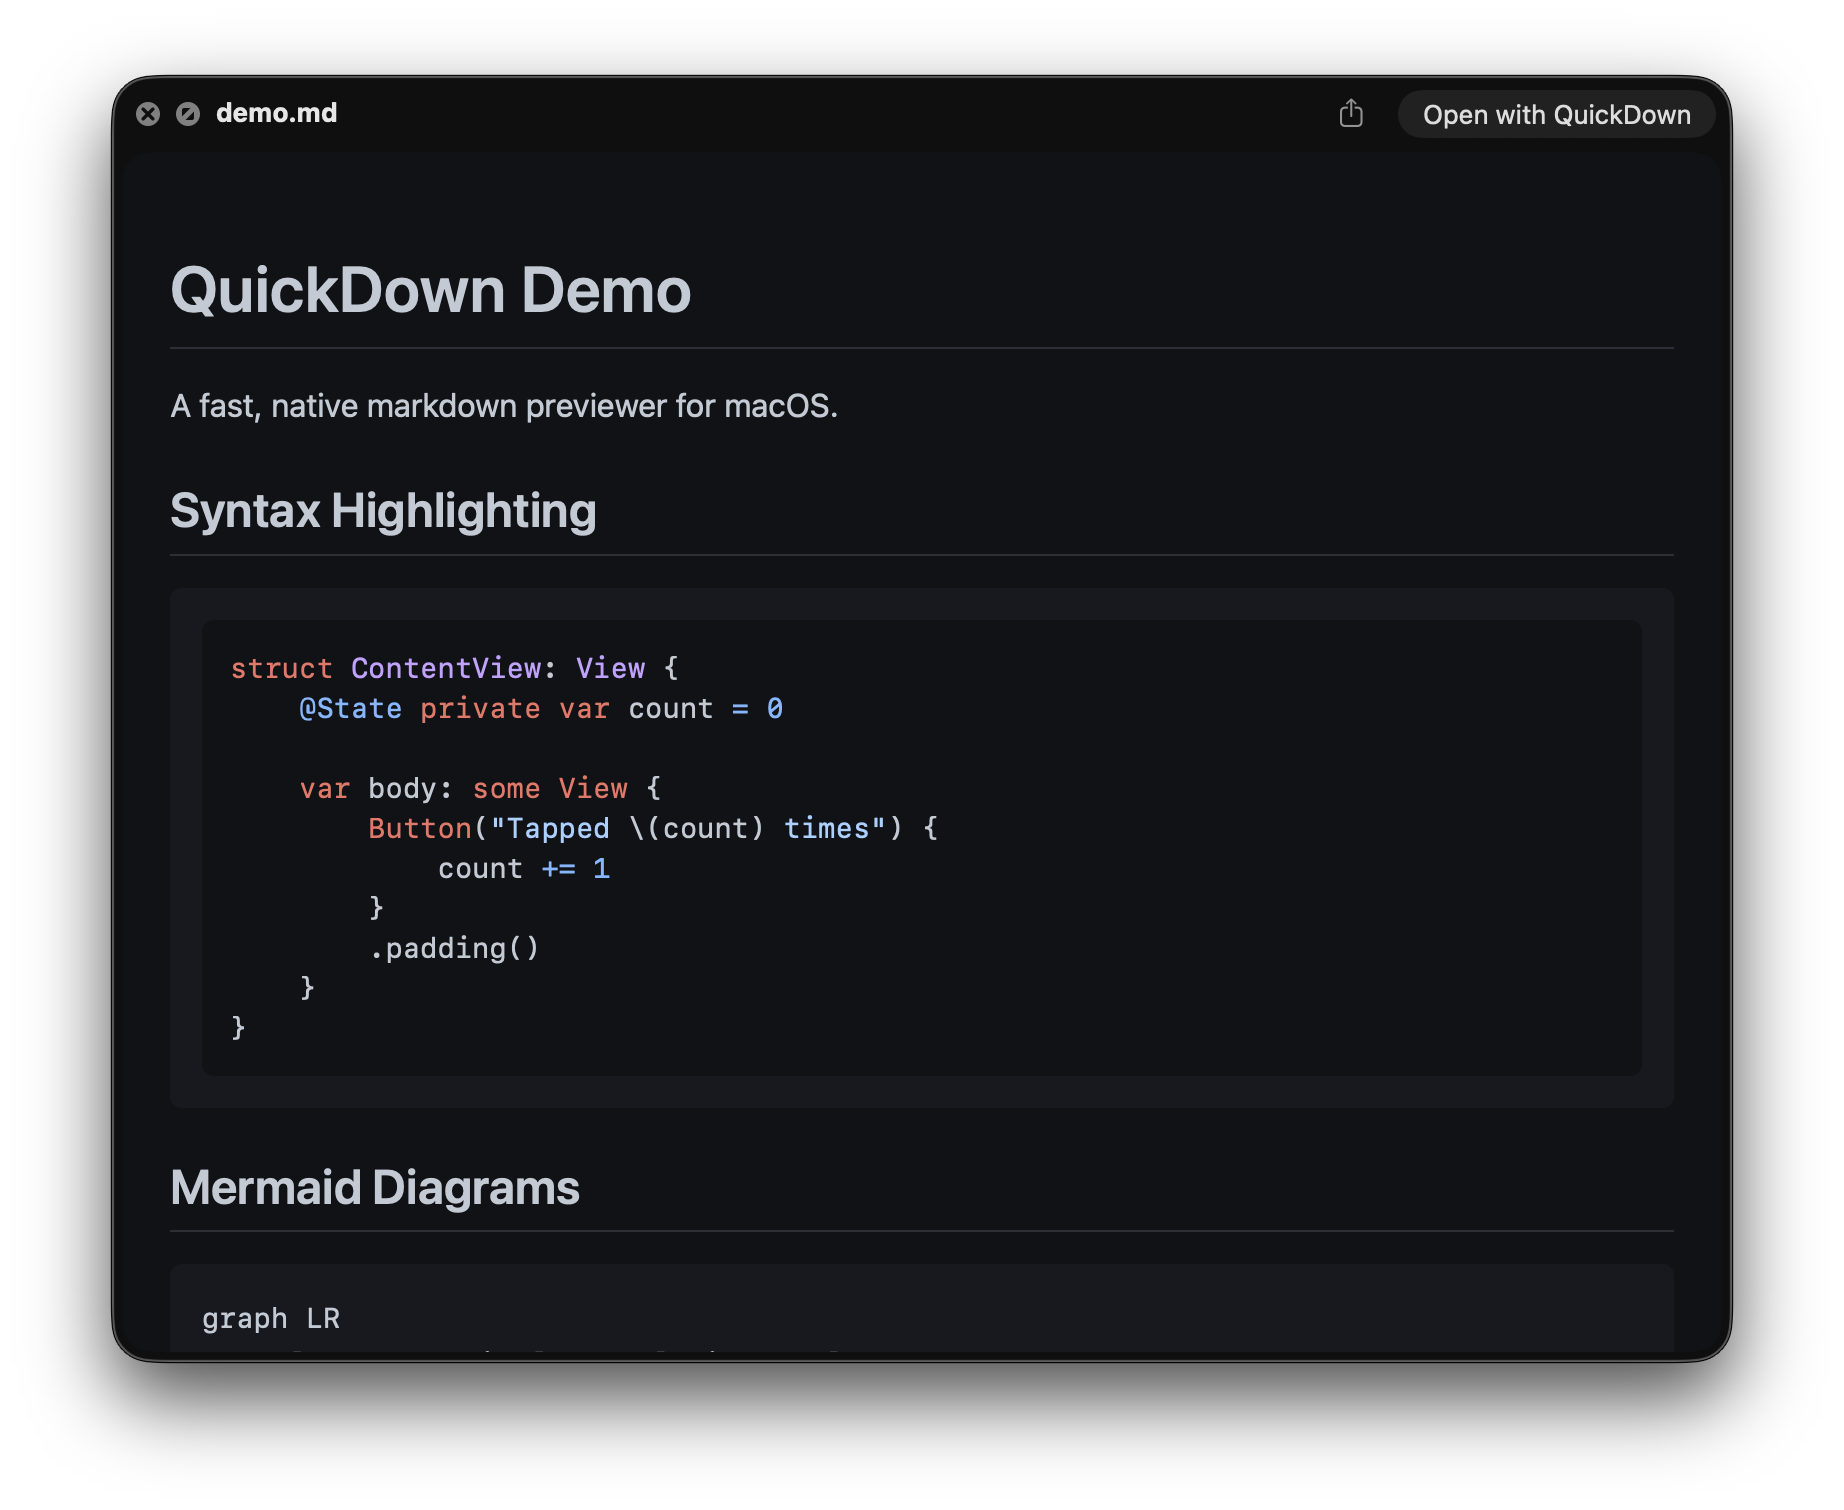
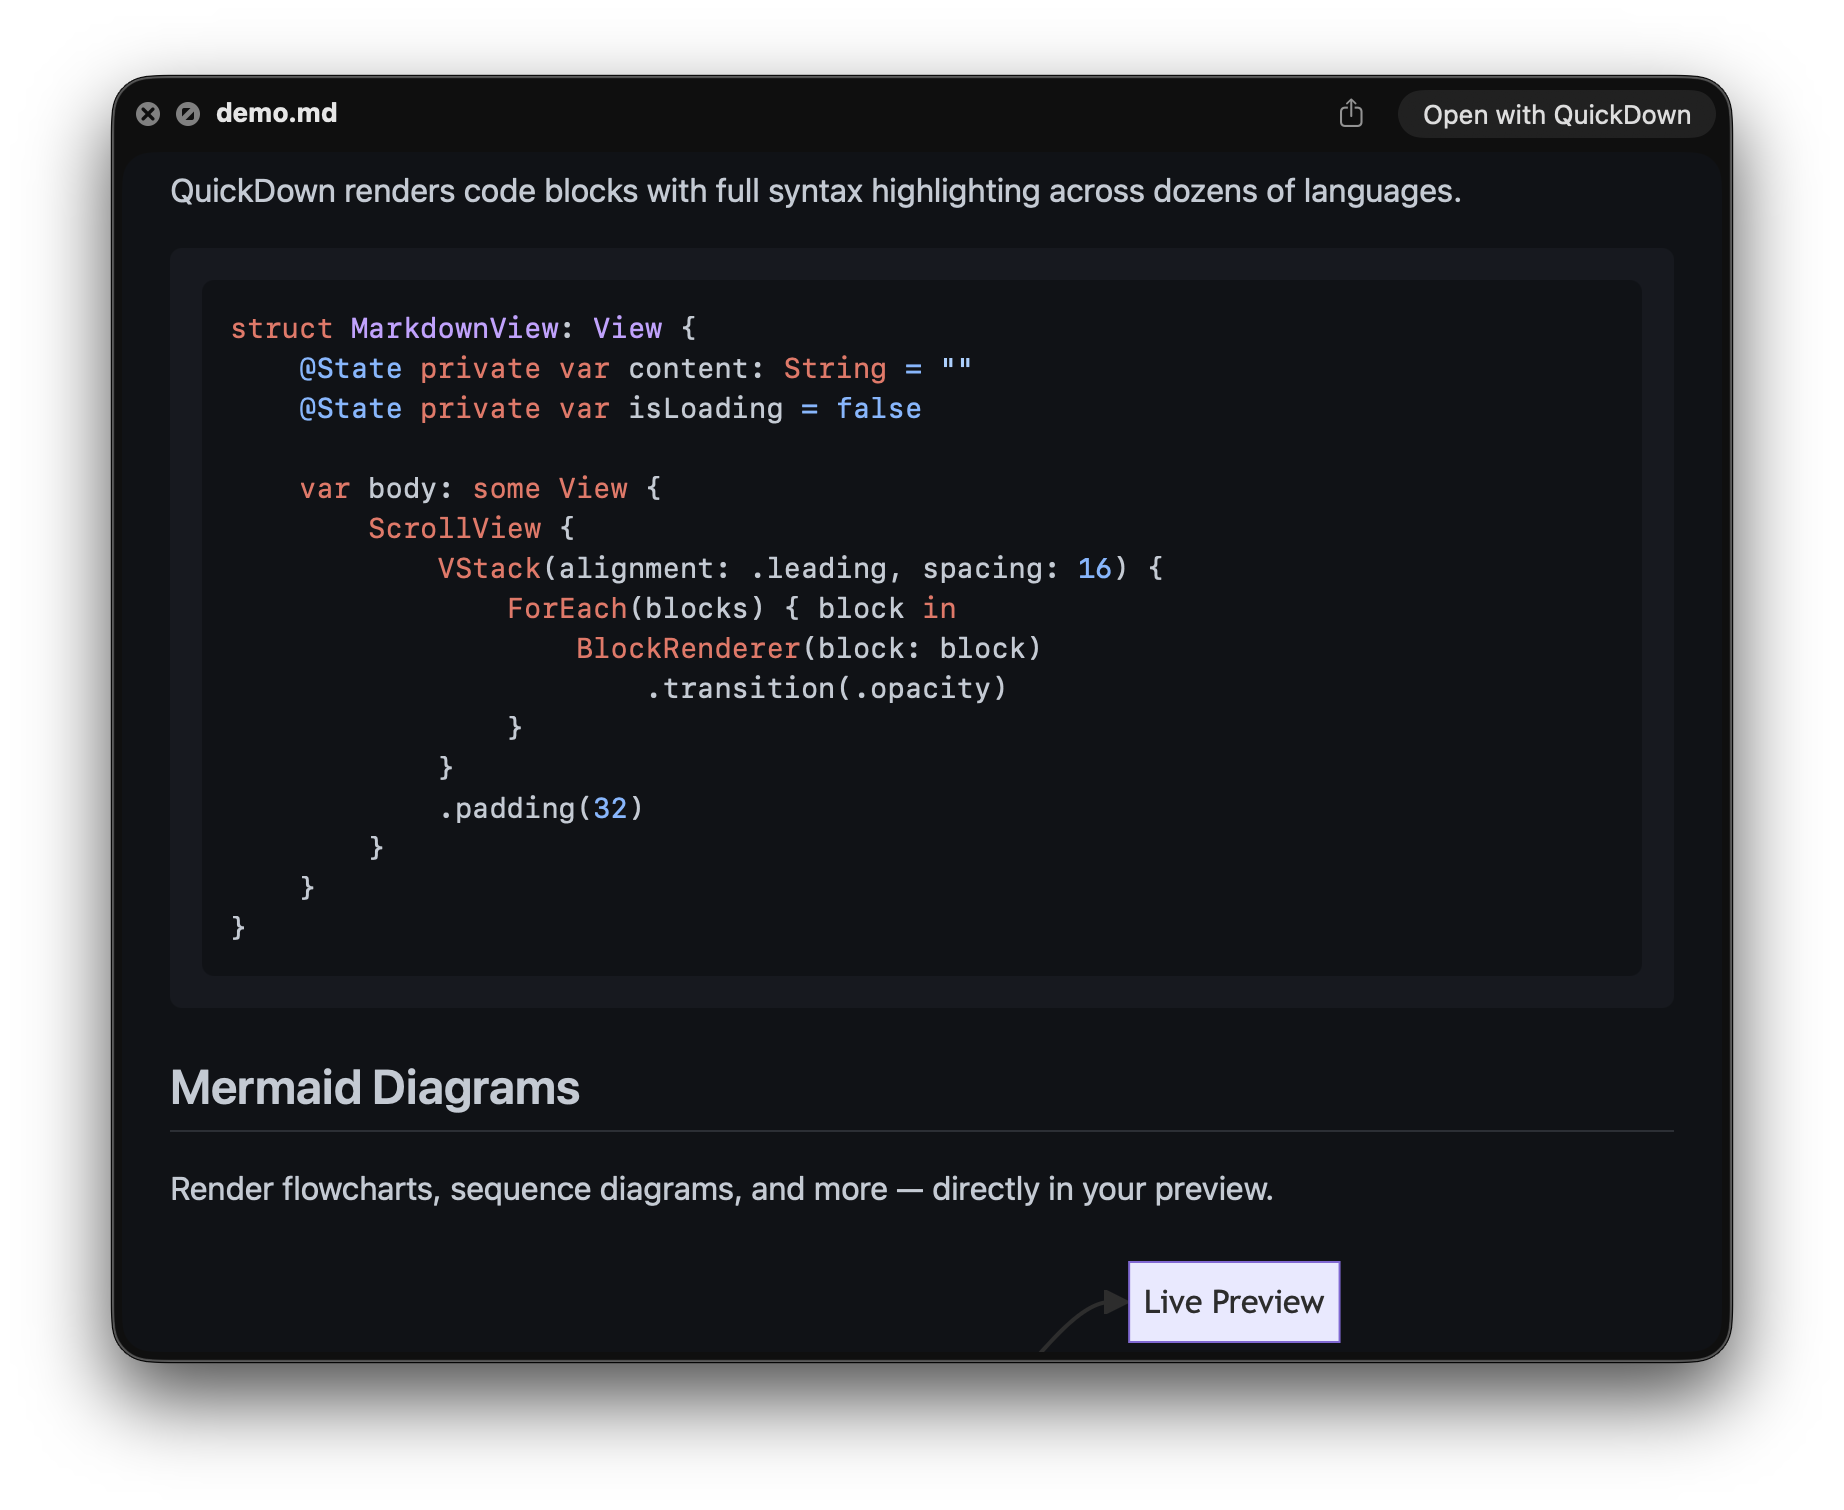
feat(core): release v0.5.0
- Bump version to 0.5.0 in both Info.plists
- Remove dead sandbox code (resolveRelativePaths, WKScriptMessageHandler, JS click interceptor)
- Extract loadHTMLInWebView helper, deduplicate temp file pattern
- Add mailto: link handling in decidePolicyFor
- Fix dark theme contrast for TOC sidebar and word count label
- Update QuickLook screenshot
- Gitignore app-store-assets and scripts directories

diff --git a/QuickDown/AppDelegate.swift b/QuickDown/AppDelegate.swift
@@ -28,6 +28,8 @@ class AppDelegate: NSObject, NSApplicationDelegate, NSMenuItemValidation, NSSear
     private var fileDescriptor: Int32 = -1
     private var reloadDebounceWorkItem: DispatchWorkItem?
     private var lastContentHash: Int = 0
+    private let tempHTMLURL = FileManager.default.temporaryDirectory
+        .appendingPathComponent("quickdown-preview.html")
 
     private var recentFilesMenu: NSMenu!
     private let recentFilesKey = "RecentFiles"
@@ -50,6 +52,7 @@ class AppDelegate: NSObject, NSApplicationDelegate, NSMenuItemValidation, NSSear
 
     // Word count
     private var wordCountLabel: NSTextField!
+    private var themeLabelColor: NSColor?  // nil = use system default
 
     // Track setup state for deferred file opens
     private var isSetupComplete = false
@@ -524,6 +527,11 @@ class AppDelegate: NSObject, NSApplicationDelegate, NSMenuItemValidation, NSSear
         webView = wv
     }
 
+    private func loadHTMLInWebView(_ html: String) throws {
+        try html.write(to: tempHTMLURL, atomically: true, encoding: .utf8)
+        webView?.loadFileURL(tempHTMLURL, allowingReadAccessTo: FileManager.default.temporaryDirectory)
+    }
+
     func openFile(_ url: URL) {
         // Safety check - window must exist
         guard window != nil else {
@@ -539,6 +547,7 @@ class AppDelegate: NSObject, NSApplicationDelegate, NSMenuItemValidation, NSSear
 
         currentFileURL = url
         window.title = "QuickDown — \(url.lastPathComponent)"
+        window.representedURL = url
 
         do {
             let content = try readFileWithFallbackEncoding(url: url)
@@ -550,17 +559,9 @@ class AppDelegate: NSObject, NSApplicationDelegate, NSMenuItemValidation, NSSear
             tocItems = parseTOC(from: content)
             tocTableView.reloadData()
 
-            // Convert relative image/link paths to absolute for local file access
-            let baseDir = url.deletingLastPathComponent()
-            let processedContent = resolveRelativePaths(in: content, baseDirectory: baseDir)
+            let html = generateHTML(markdown: content)
 
-            let html = generateHTML(markdown: processedContent)
-
-            // Write to temp file and use loadFileURL to allow local resource access
-            let tempHTMLURL = FileManager.default.temporaryDirectory
-                .appendingPathComponent("quickdown-preview.html")
-            try html.write(to: tempHTMLURL, atomically: true, encoding: .utf8)
-            webView?.loadFileURL(tempHTMLURL, allowingReadAccessTo: baseDir)
+            try loadHTMLInWebView(html)
 
             webView?.isHidden = false
             dropZoneLabel.isHidden = true
@@ -684,19 +685,12 @@ class AppDelegate: NSObject, NSApplicationDelegate, NSMenuItemValidation, NSSear
                 self.tocTableView.reloadData()
                 self.updateWordCount(content)
 
-                // Convert relative paths to absolute for local file access
-                let baseDir = url.deletingLastPathComponent()
-                let processedContent = self.resolveRelativePaths(in: content, baseDirectory: baseDir)
+                let html = self.generateHTML(markdown: content)
 
-                let html = self.generateHTML(markdown: processedContent)
-
-                // Write to temp file and use loadFileURL to allow local resource access
-                let tempHTMLURL = FileManager.default.temporaryDirectory
-                    .appendingPathComponent("quickdown-preview.html")
-                try html.write(to: tempHTMLURL, atomically: true, encoding: .utf8)
+                try html.write(to: self.tempHTMLURL, atomically: true, encoding: .utf8)
                 self.pendingScrollRestoreY = scrollY as? Double
                 self.crossfadeTransition {
-                    self.webView?.loadFileURL(tempHTMLURL, allowingReadAccessTo: baseDir)
+                    self.webView?.loadFileURL(self.tempHTMLURL, allowingReadAccessTo: FileManager.default.temporaryDirectory)
                 }
             } catch {
                 // Silently fail on reload errors - file might be mid-save
@@ -1209,52 +1203,11 @@ class AppDelegate: NSObject, NSApplicationDelegate, NSMenuItemValidation, NSSear
                     cb.removeAttribute('disabled');
                     cb.style.cursor = 'pointer';
                 });
+
             </script>
         </body>
         </html>
         """
-    }
-
-    /// Convert relative image/link paths to absolute file:// URLs for local rendering
-    private func resolveRelativePaths(in markdown: String, baseDirectory: URL) -> String {
-        var result = markdown
-
-        // Resolve markdown image syntax: ![alt](relative/path)
-        let mdImagePattern = #"!\[([^\]]*)\]\(([^)]+)\)"#
-        if let regex = try? NSRegularExpression(pattern: mdImagePattern) {
-            let range = NSRange(result.startIndex..., in: result)
-            let matches = regex.matches(in: result, range: range).reversed()
-            for match in matches {
-                guard let pathRange = Range(match.range(at: 2), in: result) else { continue }
-                let path = String(result[pathRange])
-                // Skip URLs (http://, https://, data:, file://)
-                if path.hasPrefix("http://") || path.hasPrefix("https://") ||
-                   path.hasPrefix("data:") || path.hasPrefix("file://") { continue }
-                let absoluteURL = baseDirectory.appendingPathComponent(path)
-                if FileManager.default.fileExists(atPath: absoluteURL.path) {
-                    result.replaceSubrange(pathRange, with: absoluteURL.absoluteString)
-                }
-            }
-        }
-
-        // Resolve HTML img src: src="relative/path"
-        let htmlSrcPattern = #"src\s*=\s*"([^"]+)""#
-        if let regex = try? NSRegularExpression(pattern: htmlSrcPattern) {
-            let range = NSRange(result.startIndex..., in: result)
-            let matches = regex.matches(in: result, range: range).reversed()
-            for match in matches {
-                guard let pathRange = Range(match.range(at: 1), in: result) else { continue }
-                let path = String(result[pathRange])
-                if path.hasPrefix("http://") || path.hasPrefix("https://") ||
-                   path.hasPrefix("data:") || path.hasPrefix("file://") { continue }
-                let absoluteURL = baseDirectory.appendingPathComponent(path)
-                if FileManager.default.fileExists(atPath: absoluteURL.path) {
-                    result.replaceSubrange(pathRange, with: absoluteURL.absoluteString)
-                }
-            }
-        }
-
-        return result
     }
 
     private func escapeForJavaScript(_ string: String) -> String {
@@ -1513,6 +1466,9 @@ class AppDelegate: NSObject, NSApplicationDelegate, NSMenuItemValidation, NSSear
             searchBar.wantsLayer = false
             searchBar.layer?.backgroundColor = nil
             dropZoneLabel.textColor = .secondaryLabelColor
+            wordCountLabel.textColor = .tertiaryLabelColor
+            themeLabelColor = nil
+            tocTableView.reloadData()
             return
         }
 
@@ -1524,7 +1480,7 @@ class AppDelegate: NSObject, NSApplicationDelegate, NSMenuItemValidation, NSSear
             labelColor = NSColor(white: 0.5, alpha: 1.0)
         case .dark:
             backgroundColor = NSColor(red: 0.051, green: 0.067, blue: 0.09, alpha: 1.0)  // #0d1117
-            labelColor = NSColor(white: 0.6, alpha: 1.0)
+            labelColor = NSColor(white: 0.7, alpha: 1.0)
         case .sepia:
             backgroundColor = NSColor(red: 0.957, green: 0.925, blue: 0.847, alpha: 1.0)  // #f4ecd8
             labelColor = NSColor(red: 0.5, green: 0.4, blue: 0.3, alpha: 1.0)
@@ -1533,10 +1489,10 @@ class AppDelegate: NSObject, NSApplicationDelegate, NSMenuItemValidation, NSSear
             labelColor = NSColor(red: 0.576, green: 0.631, blue: 0.631, alpha: 1.0)  // #93a1a1
         case .solarizedDark:
             backgroundColor = NSColor(red: 0.0, green: 0.169, blue: 0.212, alpha: 1.0)  // #002b36
-            labelColor = NSColor(red: 0.345, green: 0.431, blue: 0.459, alpha: 1.0)  // #586e75
+            labelColor = NSColor(red: 0.514, green: 0.580, blue: 0.588, alpha: 1.0)  // #839496 (base0)
         case .nord:
             backgroundColor = NSColor(red: 0.180, green: 0.204, blue: 0.251, alpha: 1.0)  // #2e3440
-            labelColor = NSColor(red: 0.482, green: 0.533, blue: 0.631, alpha: 1.0)  // #7b88a1
+            labelColor = NSColor(red: 0.616, green: 0.663, blue: 0.749, alpha: 1.0)  // #9da9bf (snow storm 0 dimmed)
         case .system:
             return  // already handled above
         }
@@ -1547,6 +1503,9 @@ class AppDelegate: NSObject, NSApplicationDelegate, NSMenuItemValidation, NSSear
         searchBar.wantsLayer = true
         searchBar.layer?.backgroundColor = backgroundColor.cgColor
         dropZoneLabel.textColor = labelColor
+        wordCountLabel.textColor = labelColor
+        themeLabelColor = labelColor
+        tocTableView.reloadData()
     }
 
     // MARK: - Menu Validation
@@ -1665,6 +1624,9 @@ extension AppDelegate: NSTableViewDataSource, NSTableViewDelegate {
         let cell = NSTextField(labelWithString: item.title)
         cell.lineBreakMode = .byTruncatingTail
         cell.font = NSFont.systemFont(ofSize: 12)
+        if let color = themeLabelColor {
+            cell.textColor = color
+        }
 
         // Indent based on heading level
         let indent = CGFloat((item.level - 1) * 12)
@@ -1720,14 +1682,19 @@ extension AppDelegate: NSTableViewDataSource, NSTableViewDelegate {
 
 extension AppDelegate: WKNavigationDelegate {
     func webView(_ webView: WKWebView, decidePolicyFor navigationAction: WKNavigationAction, decisionHandler: @escaping (WKNavigationActionPolicy) -> Void) {
-        if navigationAction.navigationType == .linkActivated,
-           let url = navigationAction.request.url,
-           let scheme = url.scheme,
-           scheme == "http" || scheme == "https" {
+        guard navigationAction.navigationType == .linkActivated,
+              let url = navigationAction.request.url,
+              let scheme = url.scheme else {
+            decisionHandler(.allow)
+            return
+        }
+
+        if scheme == "http" || scheme == "https" || scheme == "mailto" {
             NSWorkspace.shared.open(url)
             decisionHandler(.cancel)
             return
         }
+
         decisionHandler(.allow)
     }
 
